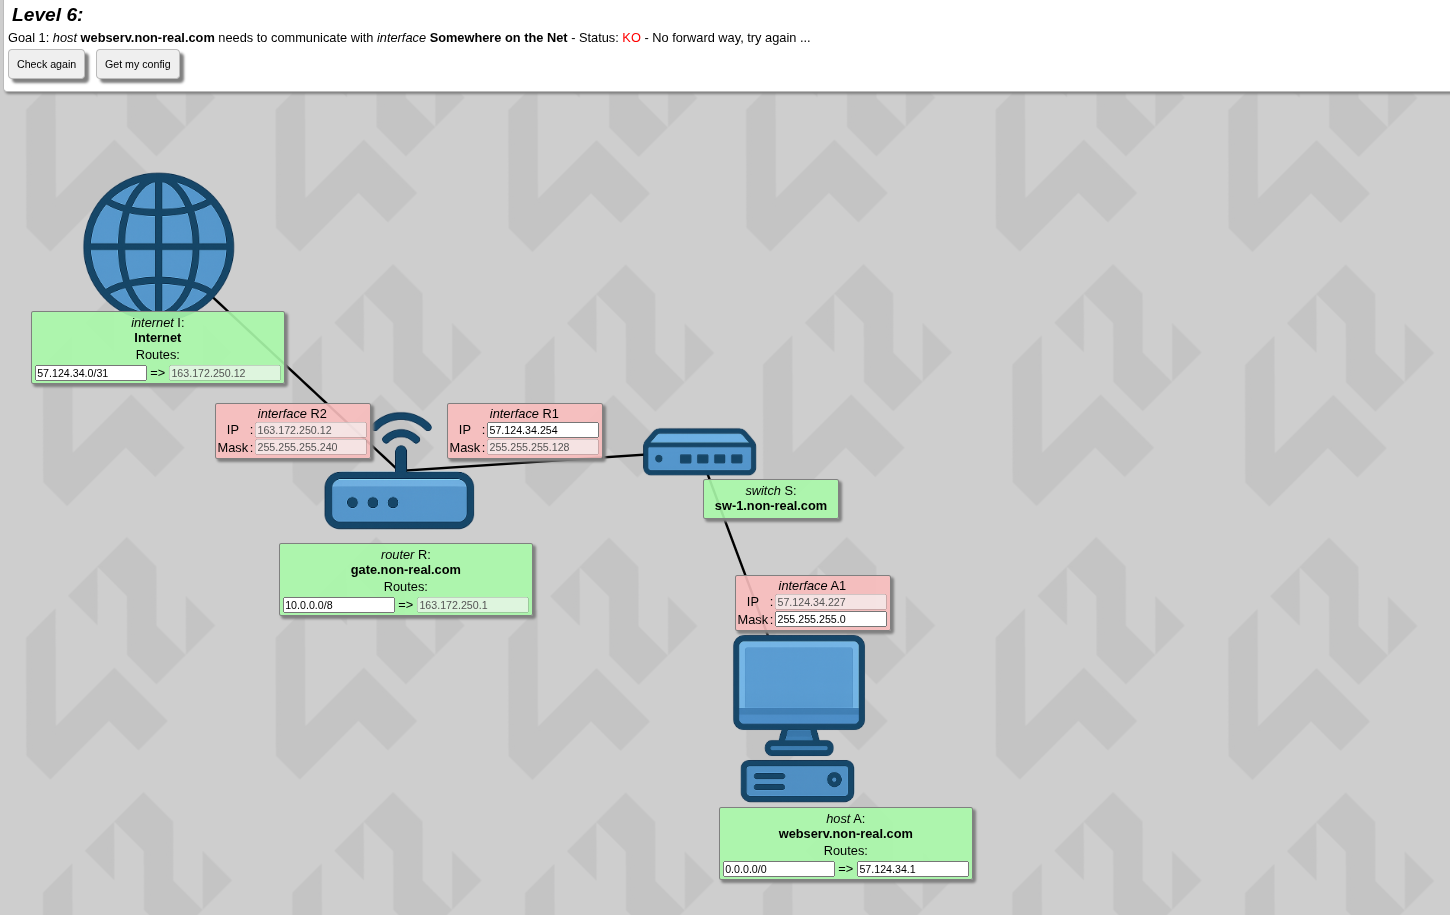
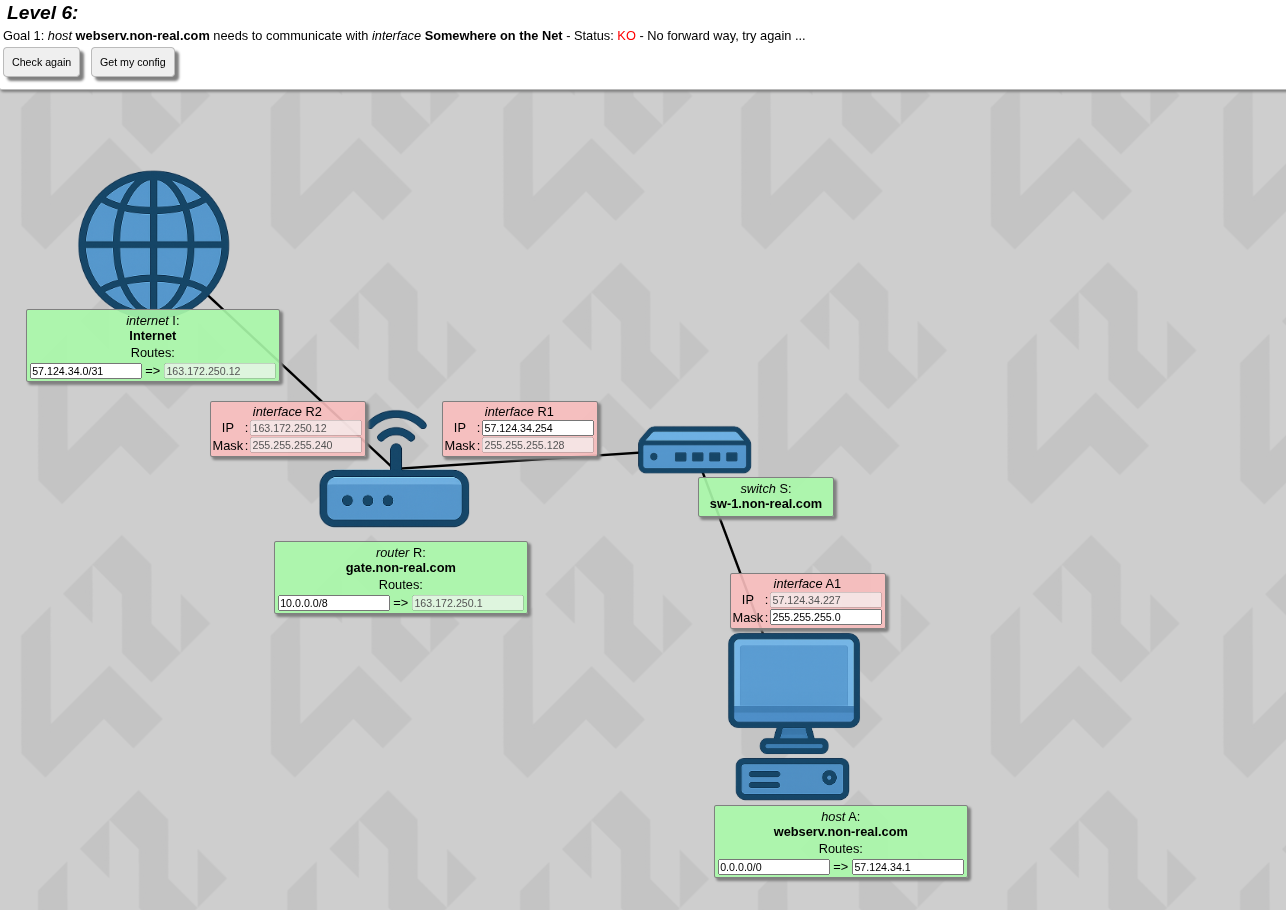
level6

Changed region(s): [[0.0311, 0.1846, 0.6532, 0.6769], [0.4977, 0.6154, 0.7776, 0.9846], [0.0, 0.0, 1.0, 0.1231]]

diff --git a/Guide/level6/level6.md b/Guide/level6/level6.md
@@ -1,7 +1,9 @@
+
+![alt text](image.png)
+
 ```markdown
 # Level 6
 
-![alt text](image.png)
 
 The new thing you are seeing is the internet.
 
@@ -54,4 +56,5 @@ As you can see there are 25 bits set to 1, so the mask is **/25**. And that's wh
 
 As you can see, it's sending data out to **163.172.250.12** which is outside of the house.
 
-![alt text](image-2.png)
+
+![alt text](image-1.png)